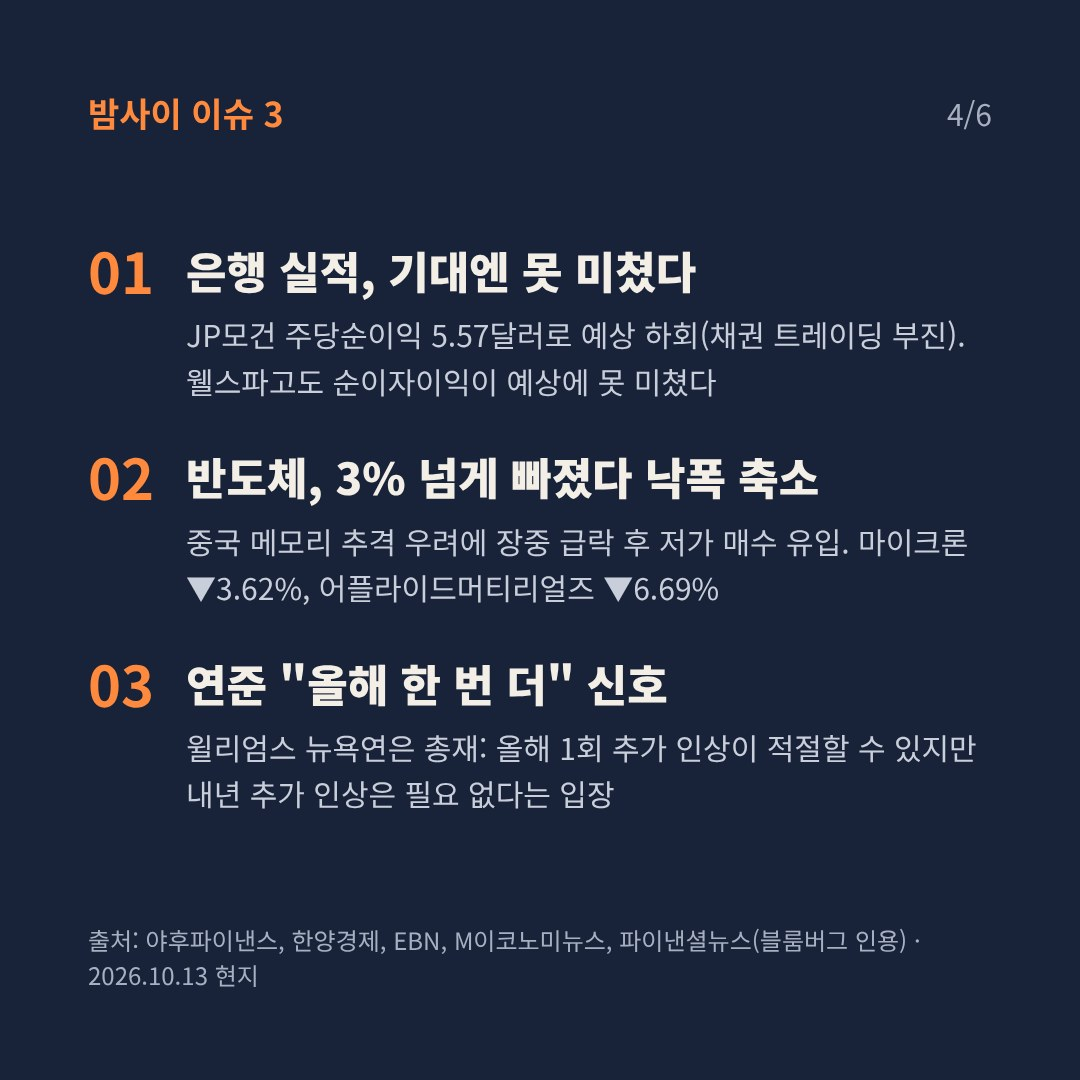
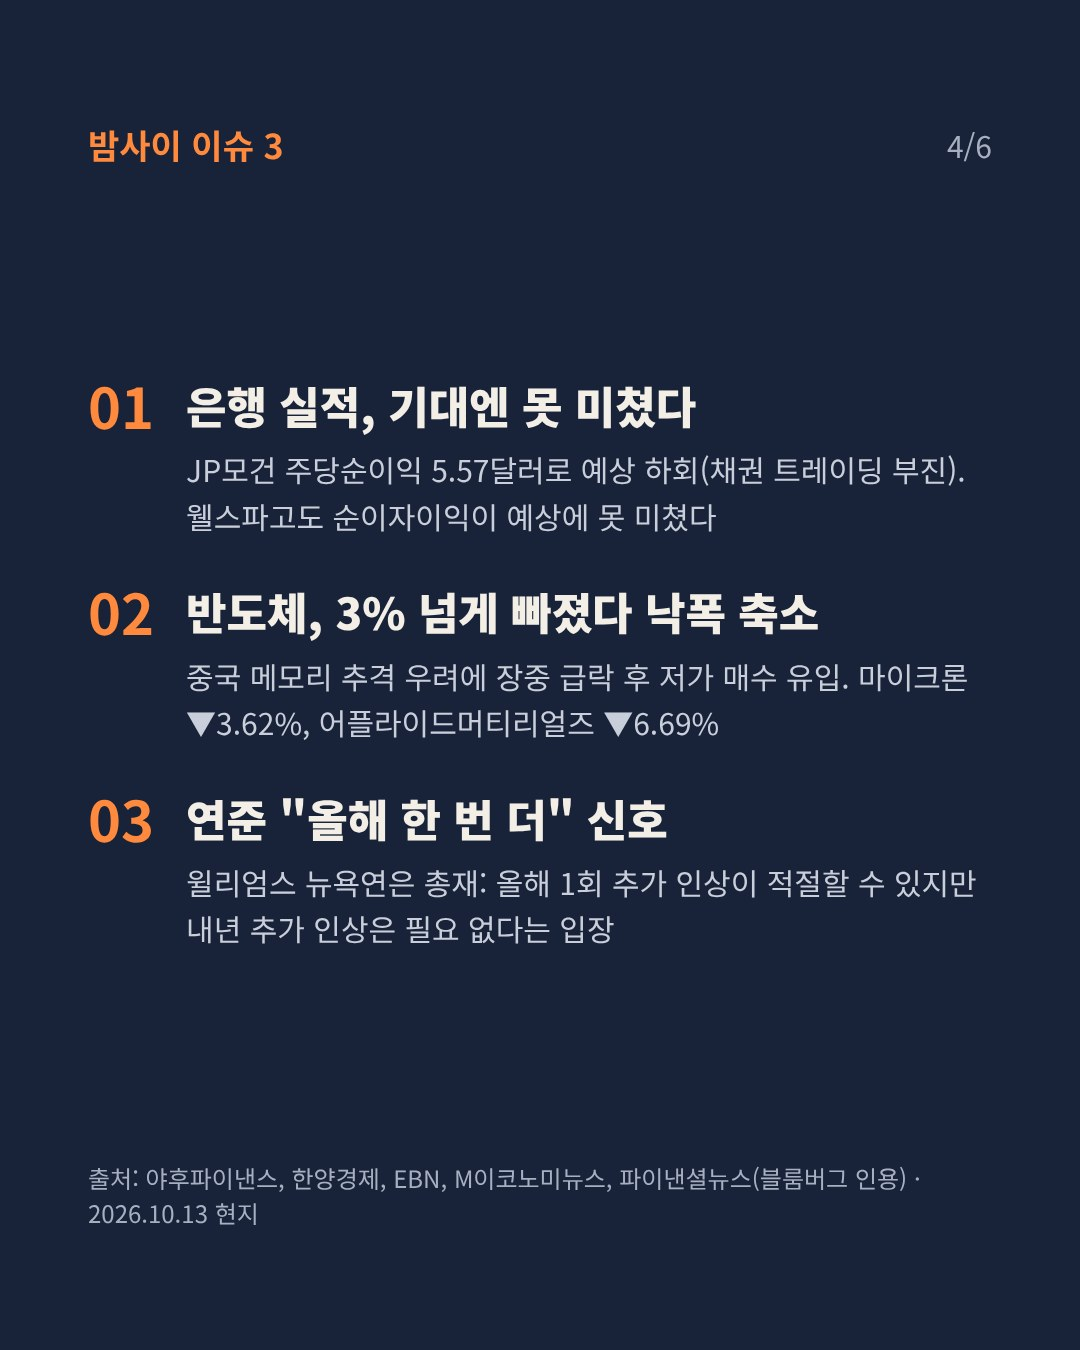
카드 크기를 인스타 4:5(1080x1350)로 변경
Claude-Session: https://claude.ai/code/session_01USbYvbZCxpK5PDesu6KDsK

diff --git a/posts/2026-10-14/src/1.html b/posts/2026-10-14/src/1.html
@@ -6,7 +6,7 @@
 <link rel="stylesheet" href="../../../template/base.css">
 </head>
 <body>
-<div style="width: 1080px; height: 1080px; box-sizing: border-box; padding: 88px; background: #0B1220; color: #F3EEE6; font-family: var(--sans); display: flex; flex-direction: column; justify-content: space-between; position: relative; overflow: hidden">
+<div style="width: 1080px; height: 1350px; box-sizing: border-box; padding: 120px 88px; background: #0B1220; color: #F3EEE6; font-family: var(--sans); display: flex; flex-direction: column; justify-content: space-between; position: relative; overflow: hidden">
 <svg width="520" height="520" viewBox="0 0 200 200" aria-hidden="true" style="position: absolute; right: -120px; bottom: -200px; opacity: 0.9">
 <path d="M18 132 A82 82 0 0 1 182 132 Z" fill="#FF8A3D"></path>
 <rect x="0" y="131" width="200" height="4" fill="#F3EEE6"></rect>

diff --git a/template/example/1.html b/template/example/1.html
@@ -6,7 +6,7 @@
 <link rel="stylesheet" href="../base.css">
 </head>
 <body>
-<div style="width: 1080px; height: 1080px; box-sizing: border-box; padding: 88px; background: #0B1220; color: #F3EEE6; font-family: var(--sans); display: flex; flex-direction: column; justify-content: space-between; position: relative; overflow: hidden">
+<div style="width: 1080px; height: 1350px; box-sizing: border-box; padding: 120px 88px; background: #0B1220; color: #F3EEE6; font-family: var(--sans); display: flex; flex-direction: column; justify-content: space-between; position: relative; overflow: hidden">
 <svg width="520" height="520" viewBox="0 0 200 200" aria-hidden="true" style="position: absolute; right: -120px; bottom: -200px; opacity: 0.9">
 <path d="M18 132 A82 82 0 0 1 182 132 Z" fill="#FF8A3D"></path>
 <rect x="0" y="131" width="200" height="4" fill="#F3EEE6"></rect>

diff --git a/posts/2026-10-14/src/6.html b/posts/2026-10-14/src/6.html
@@ -6,7 +6,7 @@
 <link rel="stylesheet" href="../../../template/base.css">
 </head>
 <body>
-<div style="width: 1080px; height: 1080px; box-sizing: border-box; padding: 88px; background: #0B1220; color: #F3EEE6; font-family: var(--sans); display: flex; flex-direction: column; justify-content: space-between">
+<div style="width: 1080px; height: 1350px; box-sizing: border-box; padding: 120px 88px; background: #0B1220; color: #F3EEE6; font-family: var(--sans); display: flex; flex-direction: column; justify-content: space-between">
 <div style="display: flex; justify-content: space-between; align-items: center">
 <div style="font-size: 34px; font-weight: 700; color: #FF8A3D">이번 주 미국 일정 (현지)</div>
 <div style="font-family: var(--num); font-size: 30px; color: #A7B0C0">6/6</div>

diff --git a/posts/2026-10-14/src/5.html b/posts/2026-10-14/src/5.html
@@ -6,7 +6,7 @@
 <link rel="stylesheet" href="../../../template/base.css">
 </head>
 <body>
-<div style="width: 1080px; height: 1080px; box-sizing: border-box; padding: 88px; background: #F3EEE6; color: #0B1220; font-family: var(--sans); display: flex; flex-direction: column; justify-content: space-between">
+<div style="width: 1080px; height: 1350px; box-sizing: border-box; padding: 120px 88px; background: #F3EEE6; color: #0B1220; font-family: var(--sans); display: flex; flex-direction: column; justify-content: space-between">
 <div style="display: flex; justify-content: space-between; align-items: center">
 <div style="font-size: 34px; font-weight: 700; color: #B4500F">오늘 한국장 체크포인트</div>
 <div style="font-family: var(--num); font-size: 30px; color: #4B5563">5/6</div>

diff --git a/posts/2026-10-14/src/3.html b/posts/2026-10-14/src/3.html
@@ -6,7 +6,7 @@
 <link rel="stylesheet" href="../../../template/base.css">
 </head>
 <body>
-<div style="width: 1080px; height: 1080px; box-sizing: border-box; padding: 88px; background: #0B1220; color: #F3EEE6; font-family: var(--sans); display: flex; flex-direction: column; justify-content: space-between">
+<div style="width: 1080px; height: 1350px; box-sizing: border-box; padding: 120px 88px; background: #0B1220; color: #F3EEE6; font-family: var(--sans); display: flex; flex-direction: column; justify-content: space-between">
 <div style="display: flex; justify-content: space-between; align-items: center">
 <div style="font-size: 34px; font-weight: 700; color: #FF8A3D">유가 · 환율 · 코스피</div>
 <div style="font-family: var(--num); font-size: 30px; color: #A7B0C0">3/6</div>

diff --git a/posts/2026-10-14/src/2.html b/posts/2026-10-14/src/2.html
@@ -6,7 +6,7 @@
 <link rel="stylesheet" href="../../../template/base.css">
 </head>
 <body>
-<div style="width: 1080px; height: 1080px; box-sizing: border-box; padding: 88px; background: #18233A; color: #F3EEE6; font-family: var(--sans); display: flex; flex-direction: column; justify-content: space-between">
+<div style="width: 1080px; height: 1350px; box-sizing: border-box; padding: 120px 88px; background: #18233A; color: #F3EEE6; font-family: var(--sans); display: flex; flex-direction: column; justify-content: space-between">
 <div style="display: flex; justify-content: space-between; align-items: center">
 <div style="font-size: 34px; font-weight: 700; color: #FF8A3D">어젯밤 미국장 마감</div>
 <div style="font-family: var(--num); font-size: 30px; color: #A7B0C0">2/6</div>

diff --git a/posts/2026-10-14/src/4.html b/posts/2026-10-14/src/4.html
@@ -6,7 +6,7 @@
 <link rel="stylesheet" href="../../../template/base.css">
 </head>
 <body>
-<div style="width: 1080px; height: 1080px; box-sizing: border-box; padding: 88px; background: #18233A; color: #F3EEE6; font-family: var(--sans); display: flex; flex-direction: column; justify-content: space-between">
+<div style="width: 1080px; height: 1350px; box-sizing: border-box; padding: 120px 88px; background: #18233A; color: #F3EEE6; font-family: var(--sans); display: flex; flex-direction: column; justify-content: space-between">
 <div style="display: flex; justify-content: space-between; align-items: center">
 <div style="font-size: 34px; font-weight: 700; color: #FF8A3D">밤사이 이슈 3</div>
 <div style="font-family: var(--num); font-size: 30px; color: #A7B0C0">4/6</div>

diff --git a/template/example/6.html b/template/example/6.html
@@ -6,7 +6,7 @@
 <link rel="stylesheet" href="../base.css">
 </head>
 <body>
-<div style="width: 1080px; height: 1080px; box-sizing: border-box; padding: 88px; background: #0B1220; color: #F3EEE6; font-family: var(--sans); display: flex; flex-direction: column; justify-content: space-between">
+<div style="width: 1080px; height: 1350px; box-sizing: border-box; padding: 120px 88px; background: #0B1220; color: #F3EEE6; font-family: var(--sans); display: flex; flex-direction: column; justify-content: space-between">
 <div style="display: flex; justify-content: space-between; align-items: center">
 <div style="font-size: 34px; font-weight: 700; color: #FF8A3D">이번 주 미국 일정 (현지)</div>
 <div style="font-family: var(--num); font-size: 30px; color: #A7B0C0">6/6</div>

diff --git a/template/example/5.html b/template/example/5.html
@@ -6,7 +6,7 @@
 <link rel="stylesheet" href="../base.css">
 </head>
 <body>
-<div style="width: 1080px; height: 1080px; box-sizing: border-box; padding: 88px; background: #F3EEE6; color: #0B1220; font-family: var(--sans); display: flex; flex-direction: column; justify-content: space-between">
+<div style="width: 1080px; height: 1350px; box-sizing: border-box; padding: 120px 88px; background: #F3EEE6; color: #0B1220; font-family: var(--sans); display: flex; flex-direction: column; justify-content: space-between">
 <div style="display: flex; justify-content: space-between; align-items: center">
 <div style="font-size: 34px; font-weight: 700; color: #B4500F">오늘 한국장 체크포인트</div>
 <div style="font-family: var(--num); font-size: 30px; color: #4B5563">5/6</div>

diff --git a/template/example/2.html b/template/example/2.html
@@ -6,7 +6,7 @@
 <link rel="stylesheet" href="../base.css">
 </head>
 <body>
-<div style="width: 1080px; height: 1080px; box-sizing: border-box; padding: 88px; background: #18233A; color: #F3EEE6; font-family: var(--sans); display: flex; flex-direction: column; justify-content: space-between">
+<div style="width: 1080px; height: 1350px; box-sizing: border-box; padding: 120px 88px; background: #18233A; color: #F3EEE6; font-family: var(--sans); display: flex; flex-direction: column; justify-content: space-between">
 <div style="display: flex; justify-content: space-between; align-items: center">
 <div style="font-size: 34px; font-weight: 700; color: #FF8A3D">어젯밤 미국장 마감</div>
 <div style="font-family: var(--num); font-size: 30px; color: #A7B0C0">2/6</div>

diff --git a/template/example/3.html b/template/example/3.html
@@ -6,7 +6,7 @@
 <link rel="stylesheet" href="../base.css">
 </head>
 <body>
-<div style="width: 1080px; height: 1080px; box-sizing: border-box; padding: 88px; background: #0B1220; color: #F3EEE6; font-family: var(--sans); display: flex; flex-direction: column; justify-content: space-between">
+<div style="width: 1080px; height: 1350px; box-sizing: border-box; padding: 120px 88px; background: #0B1220; color: #F3EEE6; font-family: var(--sans); display: flex; flex-direction: column; justify-content: space-between">
 <div style="display: flex; justify-content: space-between; align-items: center">
 <div style="font-size: 34px; font-weight: 700; color: #FF8A3D">유가 · 달러 · 금리</div>
 <div style="font-family: var(--num); font-size: 30px; color: #A7B0C0">3/6</div>

diff --git a/template/example/4.html b/template/example/4.html
@@ -6,7 +6,7 @@
 <link rel="stylesheet" href="../base.css">
 </head>
 <body>
-<div style="width: 1080px; height: 1080px; box-sizing: border-box; padding: 88px; background: #18233A; color: #F3EEE6; font-family: var(--sans); display: flex; flex-direction: column; justify-content: space-between">
+<div style="width: 1080px; height: 1350px; box-sizing: border-box; padding: 120px 88px; background: #18233A; color: #F3EEE6; font-family: var(--sans); display: flex; flex-direction: column; justify-content: space-between">
 <div style="display: flex; justify-content: space-between; align-items: center">
 <div style="font-size: 34px; font-weight: 700; color: #FF8A3D">밤사이 이슈 3</div>
 <div style="font-family: var(--num); font-size: 30px; color: #A7B0C0">4/6</div>
